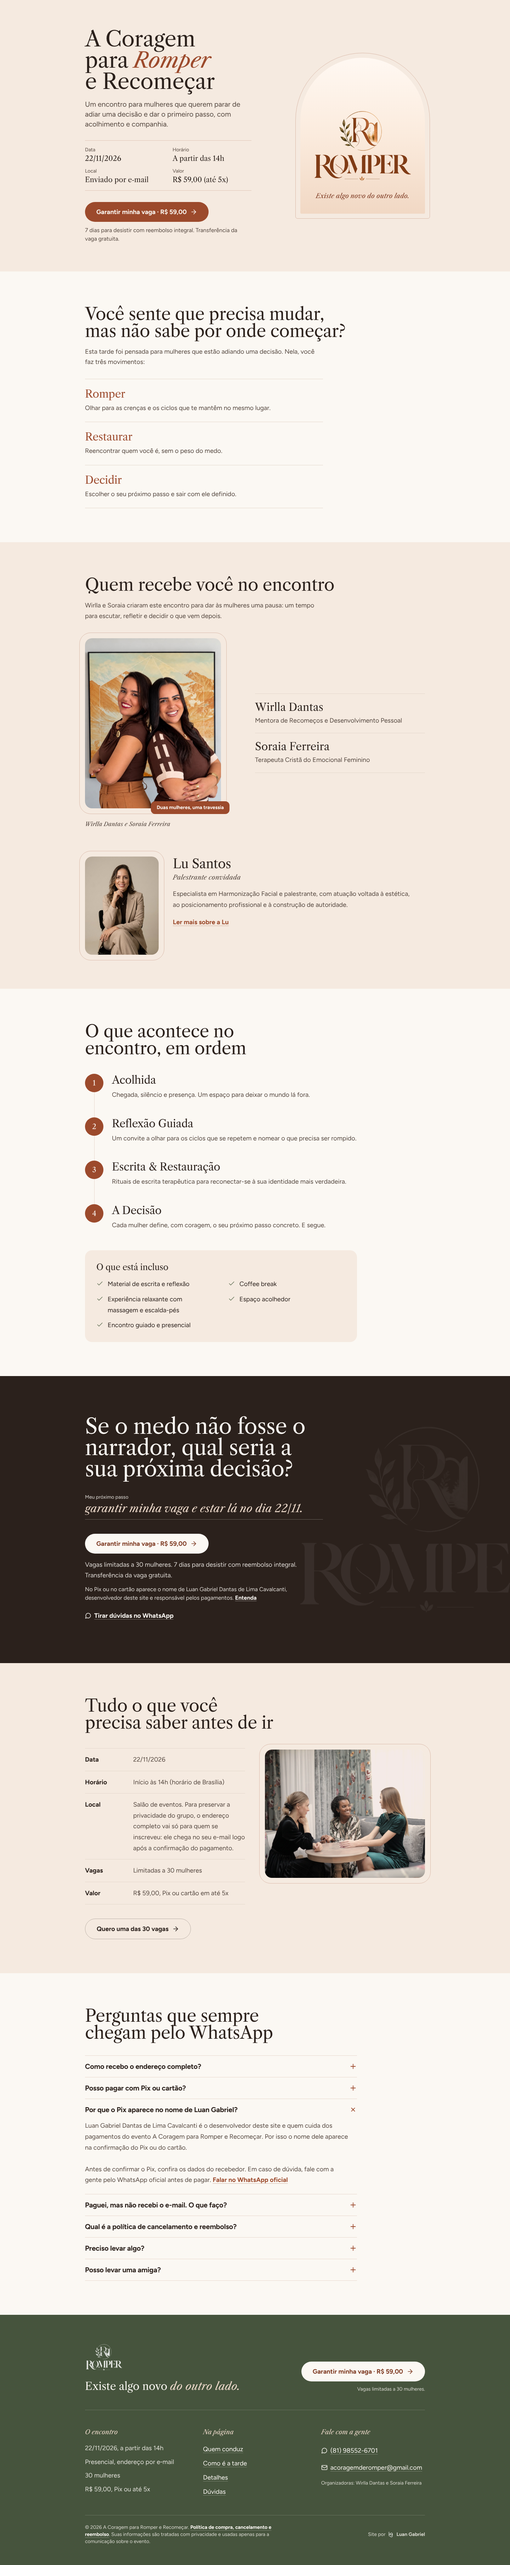
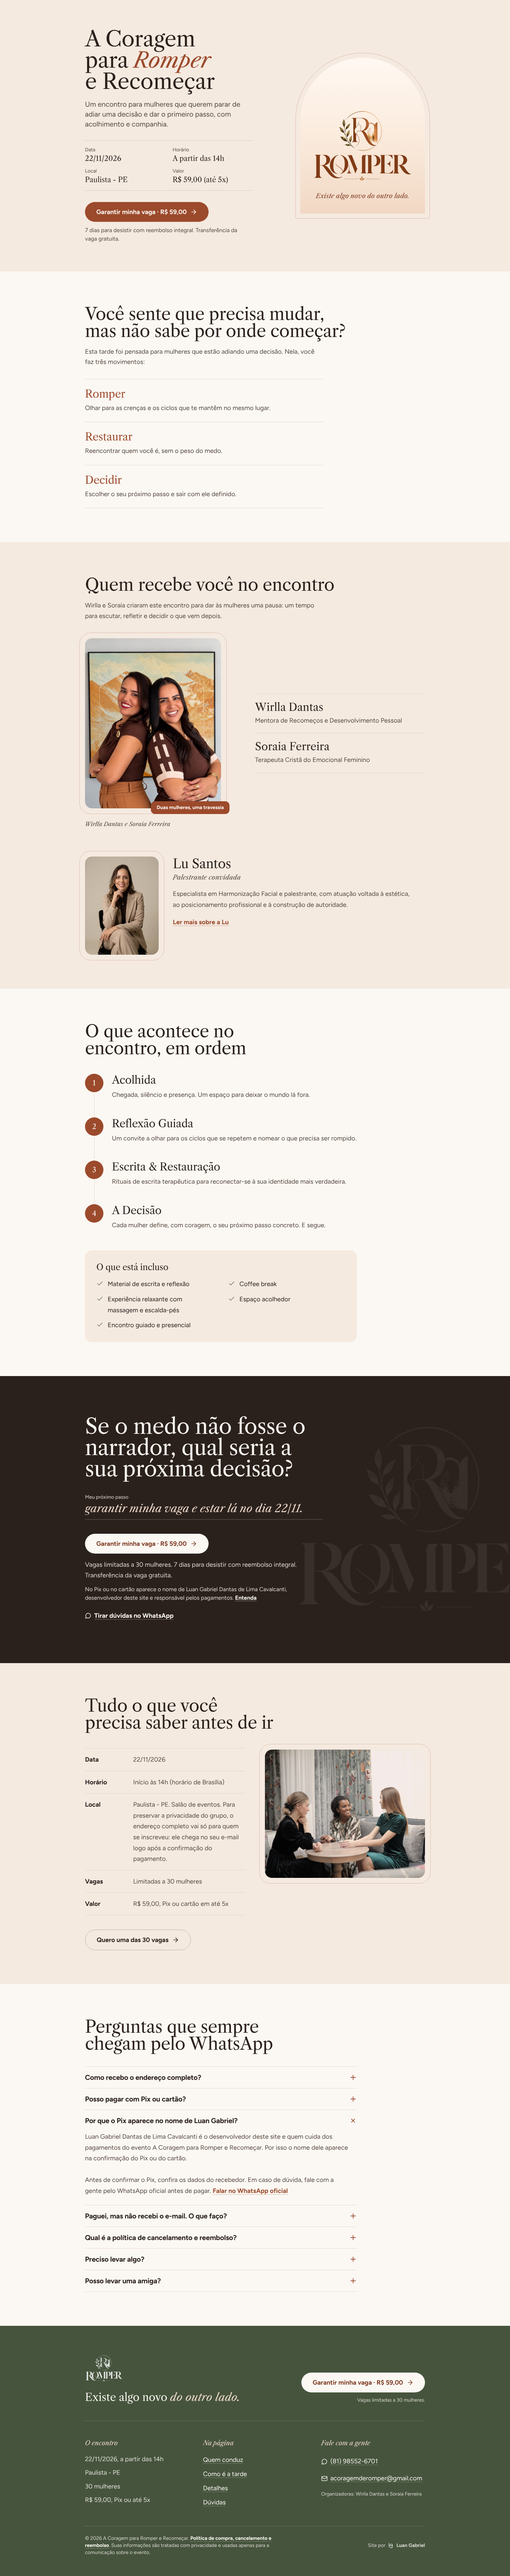
Mostra a cidade do encontro: Paulista - PE
Claude-Session: https://claude.ai/code/session_01J7WFRn7juCVtrvQuFSdBz2

diff --git a/src/data/eventConfig.ts b/src/data/eventConfig.ts
@@ -21,7 +21,7 @@ export const eventConfig = {
   price: 'R$ 59,00',
   // Cidade exibida na abertura e nos detalhes (ex.: 'Recife (PE)'). Vazio = mostra só
   // "Encontro presencial". O endereço completo continua indo só por e-mail.
-  cidade: '',
+  cidade: 'Paulista - PE',
   // Resumo da garantia, mostrado perto dos botões de inscrição.
   garantia: '7 dias para desistir com reembolso integral. Transferência da vaga gratuita.',
   recebedor: 'Luan Gabriel Dantas de Lima Cavalcanti',

diff --git a/.impeccable/surfaces/src-pages-landingpage-tsx.md b/.impeccable/surfaces/src-pages-landingpage-tsx.md
@@ -13,7 +13,7 @@ Proof on hand: fotos reais das anfitriãs (02.jpeg) e da Lu Santos; 03.jpg só c
 
 Decisões confirmadas: direção inicial "caderno de escrita" foi construída e REJEITADA pela usuária ("menos elegante e muito estilizado; pode não agradar as organizadoras"); pedido: meio-termo elegante. O meio-termo editorial puro também foi rejeitado ("extremamente simples, tirou o diferencial da primeira versão"); decisão final da usuária: "meio a meio" — voltam da versão original a logo grande na abertura, fotos com moldura e selo, e movimento suave (revelar ao rolar, linha da programação, seção final escura com logo ao fundo); ficam a organização nova, as correções e as fontes novas. Trocar Playfair/Jakarta; Pix explicado (Luan = desenvolvedor do site e responsável pelos pagamentos); motivo do endereço = privacidade do grupo; bio da Lu = 1º parágrafo + "Ler mais"; 03.jpg com tratamento quente e corte fechado.
 
-Open: cidade a mostrar (a organização disse "outra cidade da região" sem nomear) — campo `cidade` vazio em eventConfig até confirmar.
+Cidade confirmada: Paulista - PE (endereço completo só por e-mail).
 
 ## Direction contract
 

diff --git a/PRODUCT.md b/PRODUCT.md
@@ -26,7 +26,7 @@ Não é palestra nem curso. É um encontro pequeno (30 mulheres), presencial e c
 
 - A participante descobre o evento em redes sociais e no WhatsApp, abre o site no celular, se inscreve e paga no ambiente do Mercado Pago.
 - Ela tira dúvidas pelo WhatsApp oficial ((81) 98552-6701) e pelo e-mail acoragemderomper@gmail.com.
-- O endereço completo é revelado só no e-mail de confirmação, nunca no site.
+- O encontro acontece em Paulista - PE. O endereço completo é revelado só no e-mail de confirmação, nunca no site (para preservar a privacidade do grupo).
 - O recebedor do Pix aparece como Luan Gabriel Dantas de Lima Cavalcanti. O site avisa disso antes do pagamento para evitar desconfiança.
 - O dia do encontro tem esta sequência: Acolhida, Reflexão Guiada, Escrita & Restauração e A Decisão.
 
